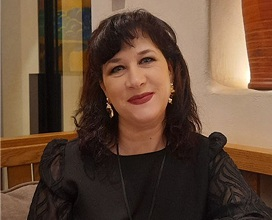
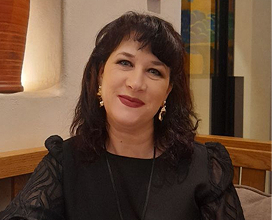
fix focus and hover for card-fotogallery, styles for why-benefits

diff --git a/scss/section/_why-benefits.scss b/scss/section/_why-benefits.scss
@@ -1,5 +1,8 @@
 .why-benefits {
-  position: relative;
+
+  &__container {
+    position: relative;
+  }
 
   & .sec-title {
     grid-column: 2 / 3;
@@ -86,7 +89,7 @@
           max-width: 350px;
         }
         @include mobile {
-          max-width: 45%;
+          max-width: 160px;
         }
       }
     }
@@ -135,12 +138,19 @@
 
   &__plane-trail {
     position: absolute;
-    right: 0;
+    right: -104px;
     bottom: 17px;
+
+    animation: trailMove 1.2s ease forwards;
 
     @include desktop {
       bottom: 35px;
       right: -72px;
+    }
+
+    @media (max-width: 1094px) {
+      bottom: 60px;
+      right: -112px;
     }
 
     @include tablet {
@@ -148,9 +158,46 @@
       right: -111px;
     }
 
-    @include mobile {
-      transform: rotate(327deg);
-      filter: brightness(0.7);
+    @media (max-width: 885px) {
+      bottom: 30px;
+      right: -155px;
+    }
+
+    @include tablet-md {
+      bottom: 7px;
+      right: -175px;
+    }
+
+    @media (max-width: 645px) {
+      display: none;
+    }
+
+    // @include mobile {
+    //   transform: rotate(327deg);
+    //   filter: brightness(0.7);
+    //   bottom: 68px;
+    //   right: auto;
+    //   left: 248px;
+    // }
+
+    &--mobile {
+      display: none;
+
+      @media (max-width: 645px) {
+        position: absolute;
+        display: block;
+        right: -34px;
+        bottom: 189px;
+      }
+
+      @media (max-width: 445px) {
+        right: -10px;
+        bottom: 218px;
+      }
+
+      @media (max-width: 351px) {
+        bottom: 244px;
+      }
     }
   }
 
@@ -158,12 +205,17 @@
     position: absolute;
     width: 198px;
     bottom: 305px;
-    right: 261px;
+    right: 160px;
 
     @include desktop {
       width: 170px;
       bottom: 325px;
       right: 200px;
+    }
+
+    @media (max-width: 1094px) {
+      bottom: 350px;
+      right: 160px;
     }
 
     @include tablet {
@@ -172,12 +224,44 @@
       right: 170px;
     }
 
-    @include mobile {
-      right: auto;
-      left: 110px;
-      bottom: 265px;
+    @media (max-width: 885px) {
+      bottom: 325px;
+      right: 130px;
+    }
+
+    @include tablet-md {
+      width: 90px;
+      bottom: 305px;
+      right: 120px;
+    }
+
+    @media (max-width: 645px) {
+      right: 155px;
+      bottom: 220px;
       width: 100px;
       transform: rotate(340deg);
     }
+
+    @media (max-width: 445px) {
+      right: 180px;
+      bottom: 250px;
+    }
+
+    @media (max-width: 351px) {
+      bottom: 278px;
+      width: 90px;
+    }
+  }
+}
+
+@keyframes trailMove {
+  from {
+    clip-path: inset(100% 0 0 100%);
+    transform: translate(-25px, 25px);
+  }
+
+  to {
+    clip-path: inset(0 0 0 0);
+    transform: translate(0, 0);
   }
 }

diff --git a/scss/section/_sec-slider.scss b/scss/section/_sec-slider.scss
@@ -68,12 +68,21 @@
 
   &[data-id="sec-fotogallery"] {
     & .sec-slider__content {
-      padding: 200px;
-      margin: -200px;
+      padding: 15px 200px;
+      margin: -15px -200px;
 
       @media (min-width: 1560px) {
-        padding: 0;
-        margin: 0;
+        padding: 15px 0;
+        margin: -15px 0;
+      }
+    }
+  }
+
+  &[data-id="sec-employees"] {
+    & .sec-slider__heading {
+      @include mobile {
+        flex-direction: column;
+        align-items: end;
       }
     }
   }

diff --git a/scss/components/_card-fotogallery.scss b/scss/components/_card-fotogallery.scss
@@ -10,6 +10,11 @@
          transform: scale(1.05);
       }
 
+      &:focus-visible {
+         outline-offset: var(--outline-offset);
+         outline: 2px solid var(--outline-color);
+      }
+
 
 
       & img {

diff --git a/template-parts/section/why-benefits.php b/template-parts/section/why-benefits.php
@@ -11,13 +11,15 @@
 
 ?>
 <section class="why-benefits <?php if($sec_is_last != 1) : ?>sec-offset"<?php endif; ?>>
-  <!-- Самолетик -->
-  <div class="why-benefits__decor-img" aria-hidden="true">
-    <img class="why-benefits__plane" src="<?php echo get_template_directory_uri();?>/img/svg/plane.svg" alt="" width="198" height="103">
-    <img class="why-benefits__plane-trail" src="<?php echo get_template_directory_uri();?>/img/svg/plane-trail.svg" alt="" width="341" height="296">
-  </div>
 
   <div class="why-benefits__container container">
+      <!-- Самолетик -->
+    <div class="why-benefits__decor-img" aria-hidden="true">
+      <img class="why-benefits__plane" src="<?php echo get_template_directory_uri();?>/img/svg/plane.svg" alt="" width="198" height="103">
+      <img class="why-benefits__plane-trail" src="<?php echo get_template_directory_uri();?>/img/svg/plane-trail.svg" alt="" width="341" height="296">
+      <img class="why-benefits__plane-trail why-benefits__plane-trail--mobile" src="<?php echo get_template_directory_uri();?>/img/svg/plane-trail-mobile.svg" alt="" width="212" height="45">
+    </div>
+
     <?php if(!empty($sec_why_list) && is_array($sec_why_list)) : ?>
     <ul class="why-benefits__list">
       <?php foreach($sec_why_list as $ids => $benefit) : 

diff --git a/template-parts/components/card-employee.php b/template-parts/components/card-employee.php
@@ -44,12 +44,12 @@
     <a href="mailto:<?php echo esc_attr($employee_email); ?>" class="card-employee__email"><?php echo esc_html($employee_email); ?></a>
     <?php endif; ?>
 
-    <?php if(!empty($employee_phone[0]) && is_array($employee_phone)) : ?>
-    <a href="tel:<?php echo $employee_phone_href[0]; ?>" class="card-employee__phone">
+    <?php if(!empty($employee_phone)) : ?>
+    <a href="tel:<?php echo $employee_phone_href; ?>" class="card-employee__phone">
         <svg width="14" height="14">
           <use xlink:href="<?php echo get_template_directory_uri();?>/img/sprite.svg#phone"></use>
         </svg>
-        <span><?php echo $employee_phone[0]; ?></span>
+        <span><?php echo $employee_phone; ?></span>
     </a>
     <?php endif; ?>
 